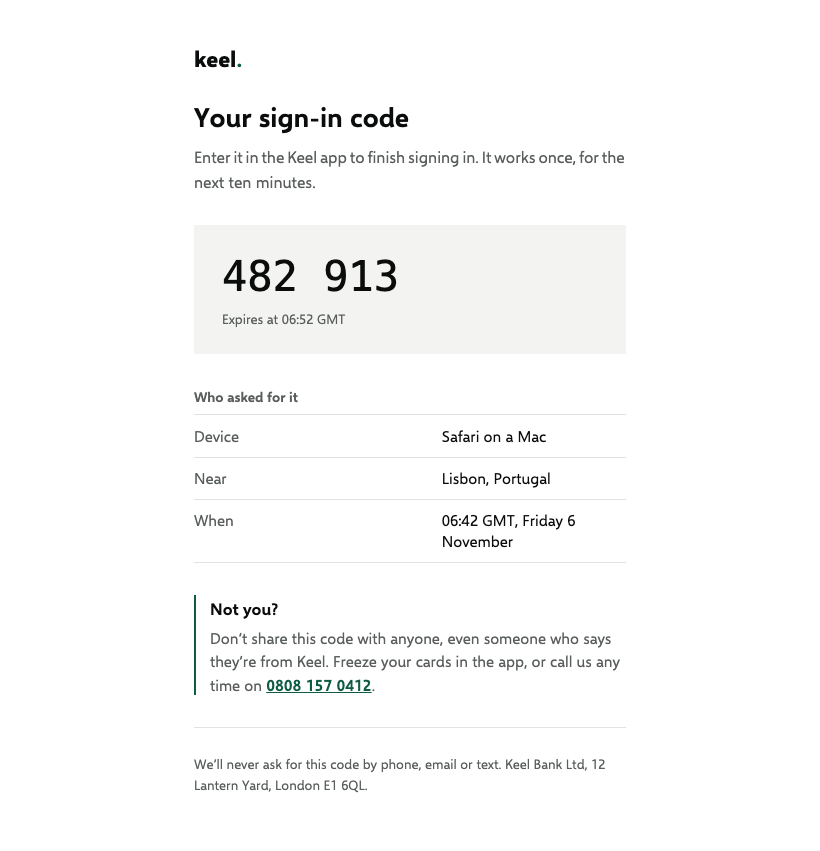
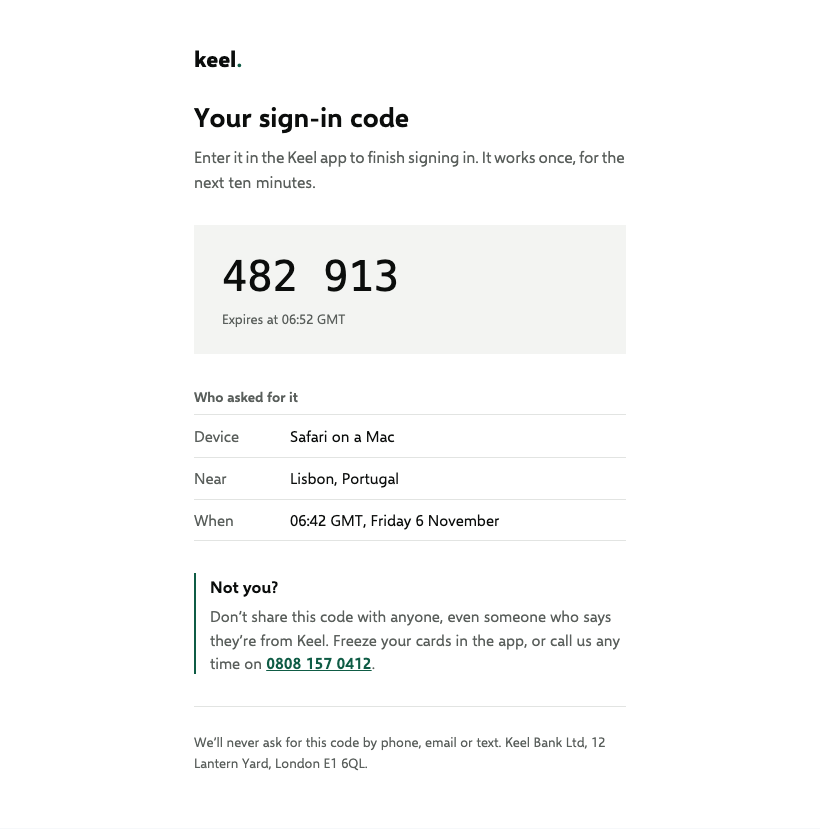
docs(website): the emulator page's images from email-clients 0.4.2
Redrawn from the published email-clients 0.4.2 and models 1.7.0 (generate:email-clients, no overrides): eleven are
unchanged. Keel's sign-in code in classic Outlook is redrawn with #149's fix, its details table keeping the label
column's 96px, so the date sits on one line.

diff --git a/apps/website/src/content/docs/email-clients.md b/apps/website/src/content/docs/email-clients.md
@@ -64,7 +64,7 @@ Here's what the emulator draws for three emails, each in four clients, the Gmail
 **[Keel sign-in code](/templates/keel-sign-in-code)**
 
 <div class="client-gallery">
-<figure><a href="/generated/email-clients/keel-sign-in-code-outlook.png" title="Open the Keel sign-in code email in Classic Outlook at full size"><img src="/generated/email-clients/keel-sign-in-code-outlook.png" width="820" height="851" loading="lazy" alt="The Keel sign-in code email in Classic Outlook, drawn by the email client emulator"></a><figcaption>Classic Outlook</figcaption></figure>
+<figure><a href="/generated/email-clients/keel-sign-in-code-outlook.png" title="Open the Keel sign-in code email in Classic Outlook at full size"><img src="/generated/email-clients/keel-sign-in-code-outlook.png" width="820" height="829" loading="lazy" alt="The Keel sign-in code email in Classic Outlook, drawn by the email client emulator"></a><figcaption>Classic Outlook</figcaption></figure>
 <figure><a href="/generated/email-clients/keel-sign-in-code-gmail.png" title="Open the Keel sign-in code email in Gmail on the web at full size"><img src="/generated/email-clients/keel-sign-in-code-gmail.png" width="820" height="831" loading="lazy" alt="The Keel sign-in code email in Gmail on the web, drawn by the email client emulator"></a><figcaption>Gmail on the web</figcaption></figure>
 <figure><a href="/generated/email-clients/keel-sign-in-code-apple-mail.png" title="Open the Keel sign-in code email in Apple Mail at full size"><img src="/generated/email-clients/keel-sign-in-code-apple-mail.png" width="820" height="823" loading="lazy" alt="The Keel sign-in code email in Apple Mail, drawn by the email client emulator"></a><figcaption>Apple Mail</figcaption></figure>
 <figure><a href="/generated/email-clients/keel-sign-in-code-gmail-app.png" title="Open the Keel sign-in code email in the Gmail app on Android at full size"><img src="/generated/email-clients/keel-sign-in-code-gmail-app.png" width="380" height="817" loading="lazy" alt="The Keel sign-in code email in the Gmail app on Android, drawn by the email client emulator"></a><figcaption>Gmail app on Android</figcaption></figure>
